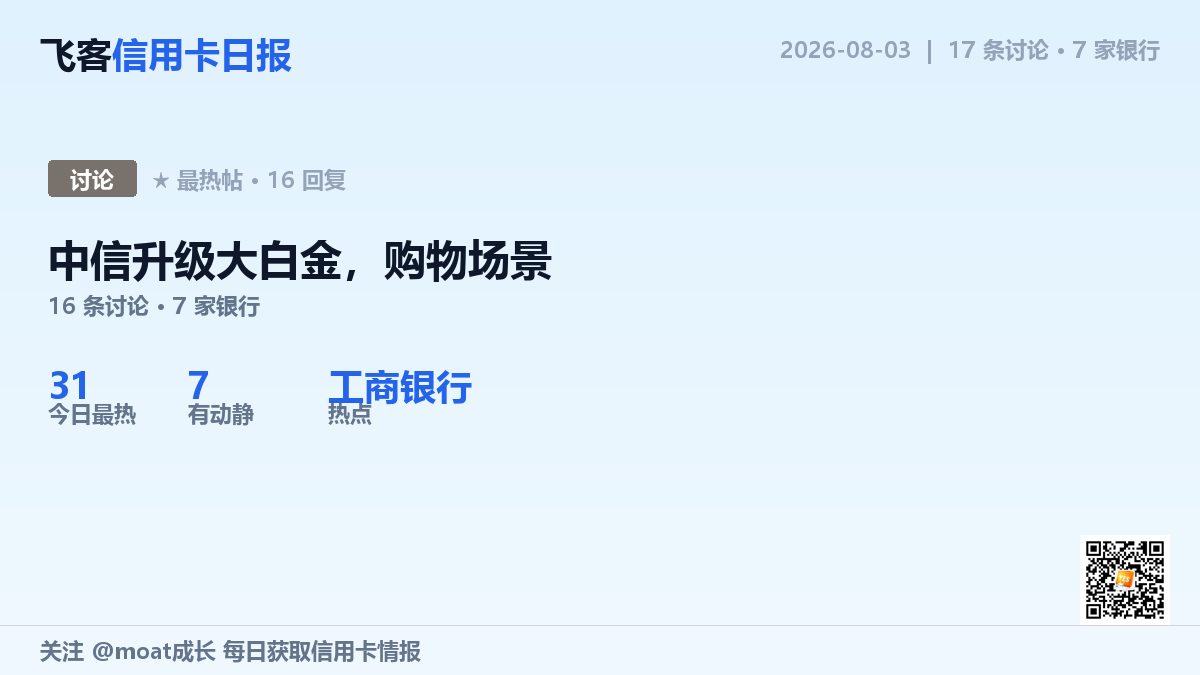
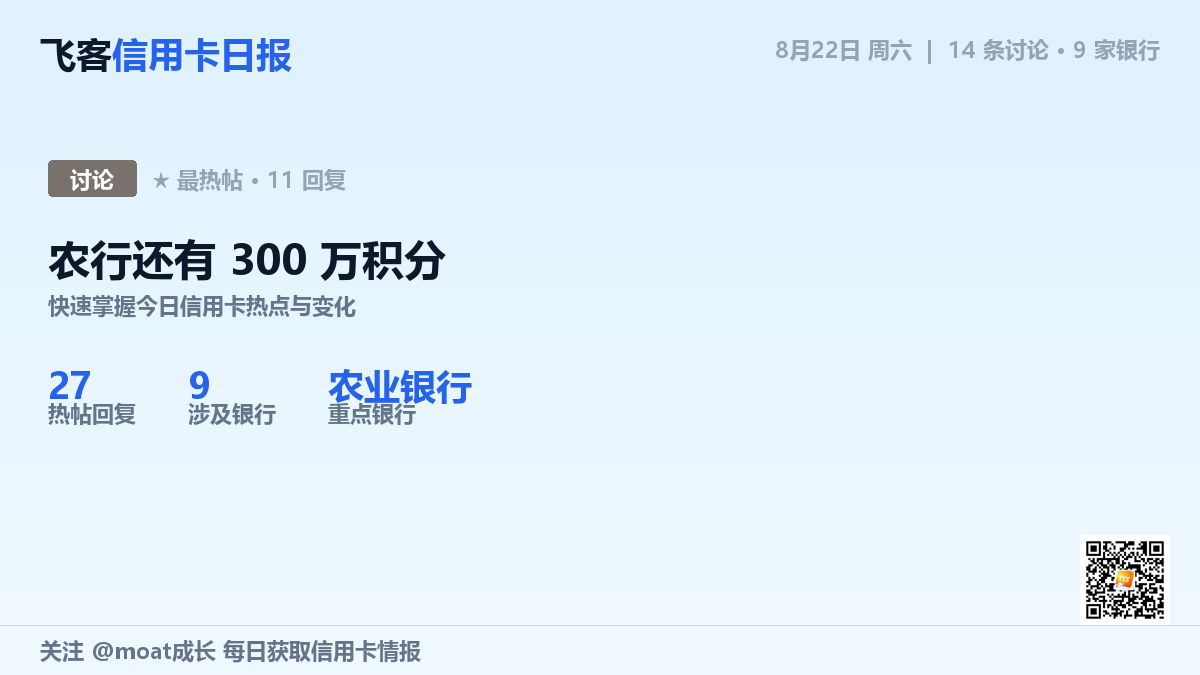
fix-cover-improve-metadata

diff --git a/cover_gen.py b/cover_gen.py
@@ -91,7 +91,7 @@ def _render_cover_pil(info_post, ds, total, bank_count, hot_bank, top_replies,
     cover_title = wechat_title or (article_title.replace("飞客早报 | ", "").replace("飞客晚报 | ", "") if article_title else "") or summary
     if len(cover_title) > 22:
         cover_title = cover_title[:20] + "…"
-    cover_subtitle = article_desc or f"{replies} 条讨论 · {bank_count} 家银行"
+    cover_subtitle = article_desc or "快速掌握今日信用卡热点与变化"
     hot_bank_short = hot_bank[:4] if len(hot_bank) > 4 else hot_bank
 
     img = Image.new("RGB", (width, height))
@@ -122,7 +122,7 @@ def _render_cover_pil(info_post, ds, total, bank_count, hot_bank, top_replies,
     draw.text((48, 230), cover_title, fill="#0f172a", font=_FONT_TITLE)
     draw.text((48, 290), cover_subtitle, fill="#64748b", font=_FONT_REG)
 
-    stats = [("今日最热", str(top_replies)), ("有动静", str(bank_count)), ("热点", hot_bank_short)]
+    stats = [("热帖回复", str(top_replies)), ("涉及银行", str(bank_count)), ("重点银行", hot_bank_short)]
     stat_x = 48
     stat_y = 360
     for label, value in stats:
@@ -154,7 +154,9 @@ def main():
         print("[-] 无可用帖子数据，跳过封面生成")
         return 2
 
-    ds = date.today().isoformat()
+    today = date.today()
+    weekday = ("周一", "周二", "周三", "周四", "周五", "周六", "周日")[today.weekday()]
+    ds = f"{today.month}月{today.day}日 {weekday}"
     total = len(posts)
     OUT_DIR.mkdir(exist_ok=True)
 

diff --git a/docs/CHANGELOG.md b/docs/CHANGELOG.md
@@ -1,4 +1,7 @@
 ## [Unreleased]
+### Changed
+- **封面信息层级优化**：通用 `cover_gen.py` 将日期改为月日加星期格式，补充读者收益副标题并统一统计标签；二维码保持原尺寸和位置不变。
+
 ### Added
 - **银行名权威校正** — `llm_daily_gen.py` 新增 `load_tid_category()` + `fix_bank_from_category()`，按 tid 从 `threads_enriched.json` / `threads_filtered.json` 读出权威论坛版块（`category`），在两个环节消除"经典白金卡属招行却误写交通银行"一类误判：
   - **喂给 LLM**：`build_prompt()` 每条链接后追加 `[板块：招商银行]`，`SYSTEM_PROMPT` 要求 `### 行首` 与热门榜 `[银行]` 必须与 `[板块：]` 一致
